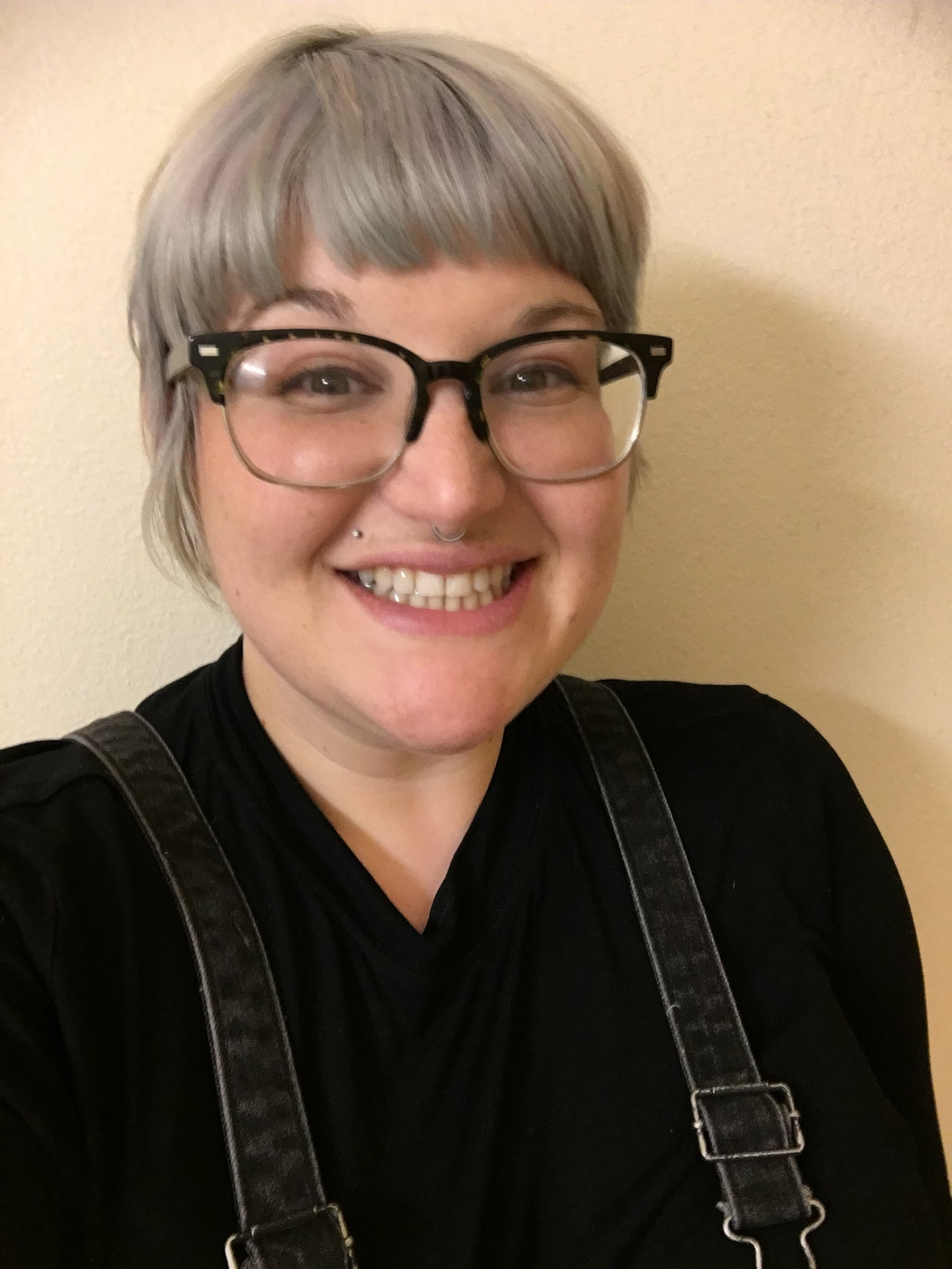
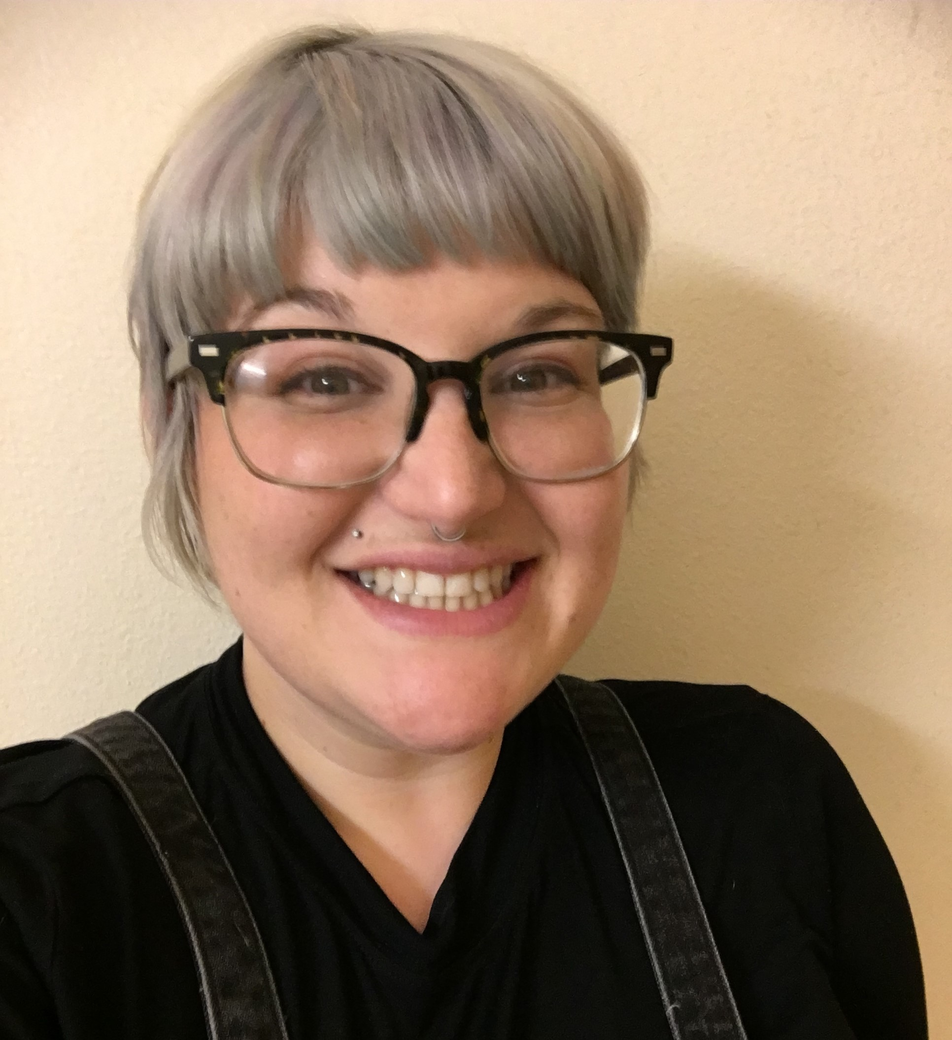
add and edit image

diff --git a/index.html b/index.html
@@ -1,13 +1,14 @@
 <!DOCTYPE html>
 <html>
-  <head>
-    <link href="css/bootstrap.css" rel="stylesheet" type="text/css" media="all">
-    <title>Serene Shehabi</title>
-  </head>
+    <head>
+      <link href="css/bootstrap.css" rel="stylesheet" type="text/css" media="all">
+      <link href="css/styles.css" rel="stylesheet" type="text/css" media="all">
+      <title>Serene Shehabi</title>
+    </head>
   <body>
     <img src="img/serene.JPG" class="serene" alt="a smiling human cutie">
     <h1>Serene Shehabi</h1>
-      <p>Here is some info about me.</p>
+      <p>Very entry level (but eagerly learning!) programmer</p>
     <h2>About Me</h2>
       <p>Filler text</p>
     <h3>Work Experience</h3>

diff --git a/css/styles.css b/css/styles.css
@@ -1,0 +1,9 @@
+img.serene {
+  height: 250px;
+  border-radius: 50%;
+  margin-top: 100px;
+}
+
+h1 {
+  
+}
